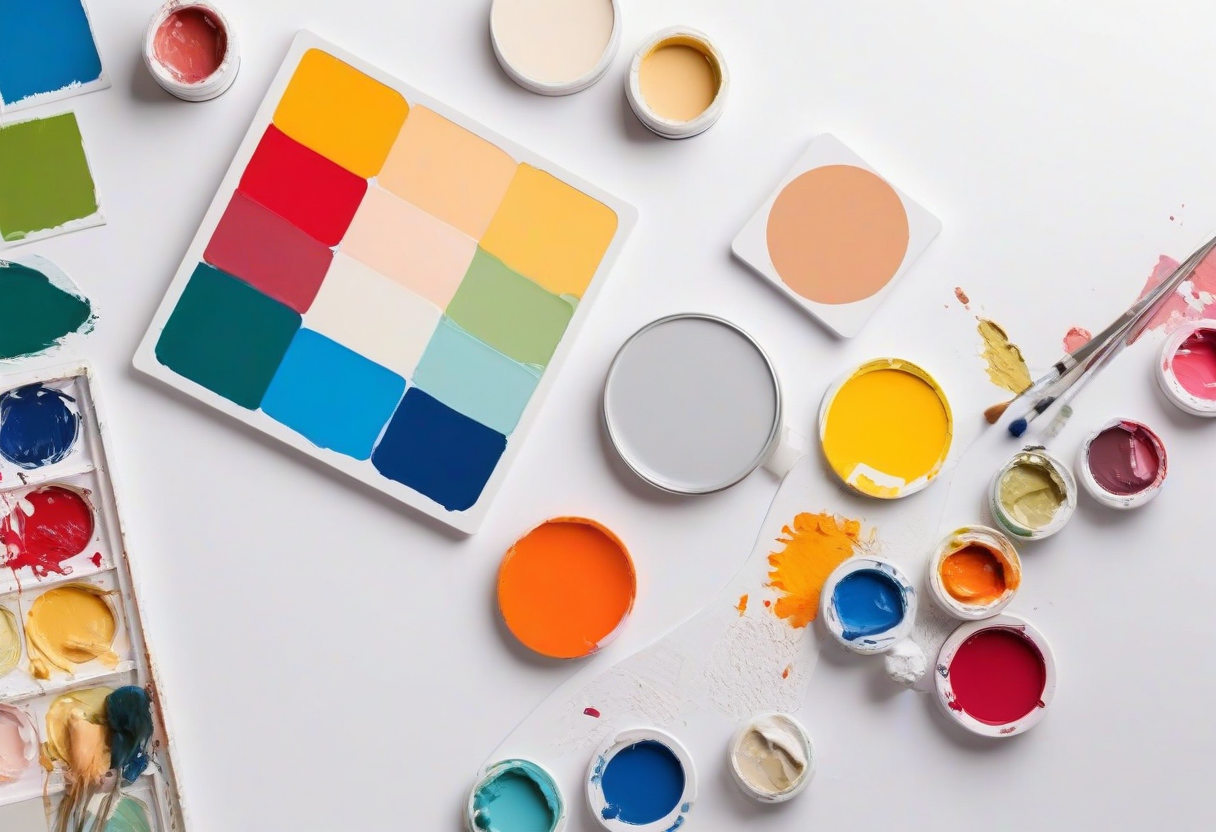
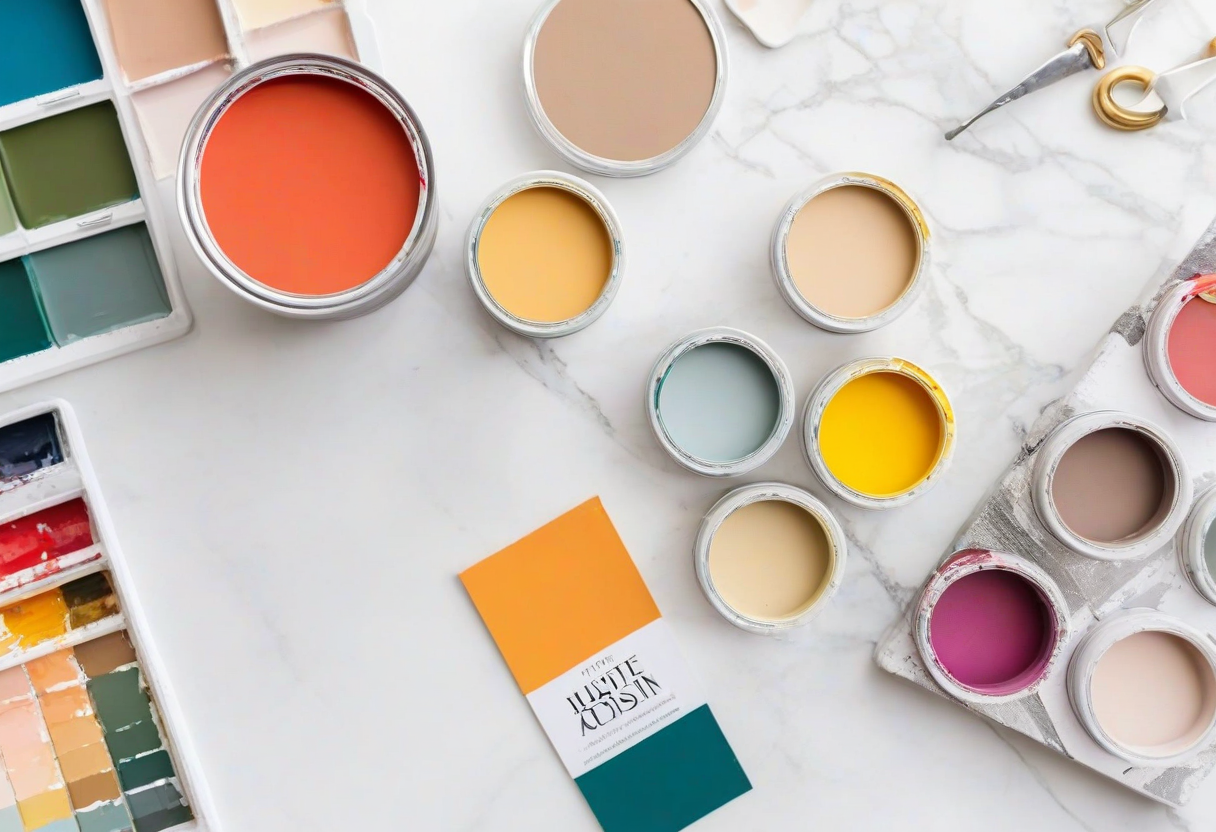
fix: different images per tool card, better prompts, correct HTML references

diff --git a/site/tools/index.html b/site/tools/index.html
@@ -39,7 +39,7 @@
         </div>
       </a>
       <a href="ergo-checklist.html" class="tool-card">
-        <div class="tool-card-image"><img src="images/desk-style-quiz.webp" alt="Desk Style Quiz"></div>
+        <div class="tool-card-image"><img src="images/ergo-checklist.webpbp" alt="Desk Style Quiz"></div>
         <div class="tool-card-body">
           <span class="tool-card-tag">Checklist</span>
           <h2>Ergonomic Desk Checklist</h2>